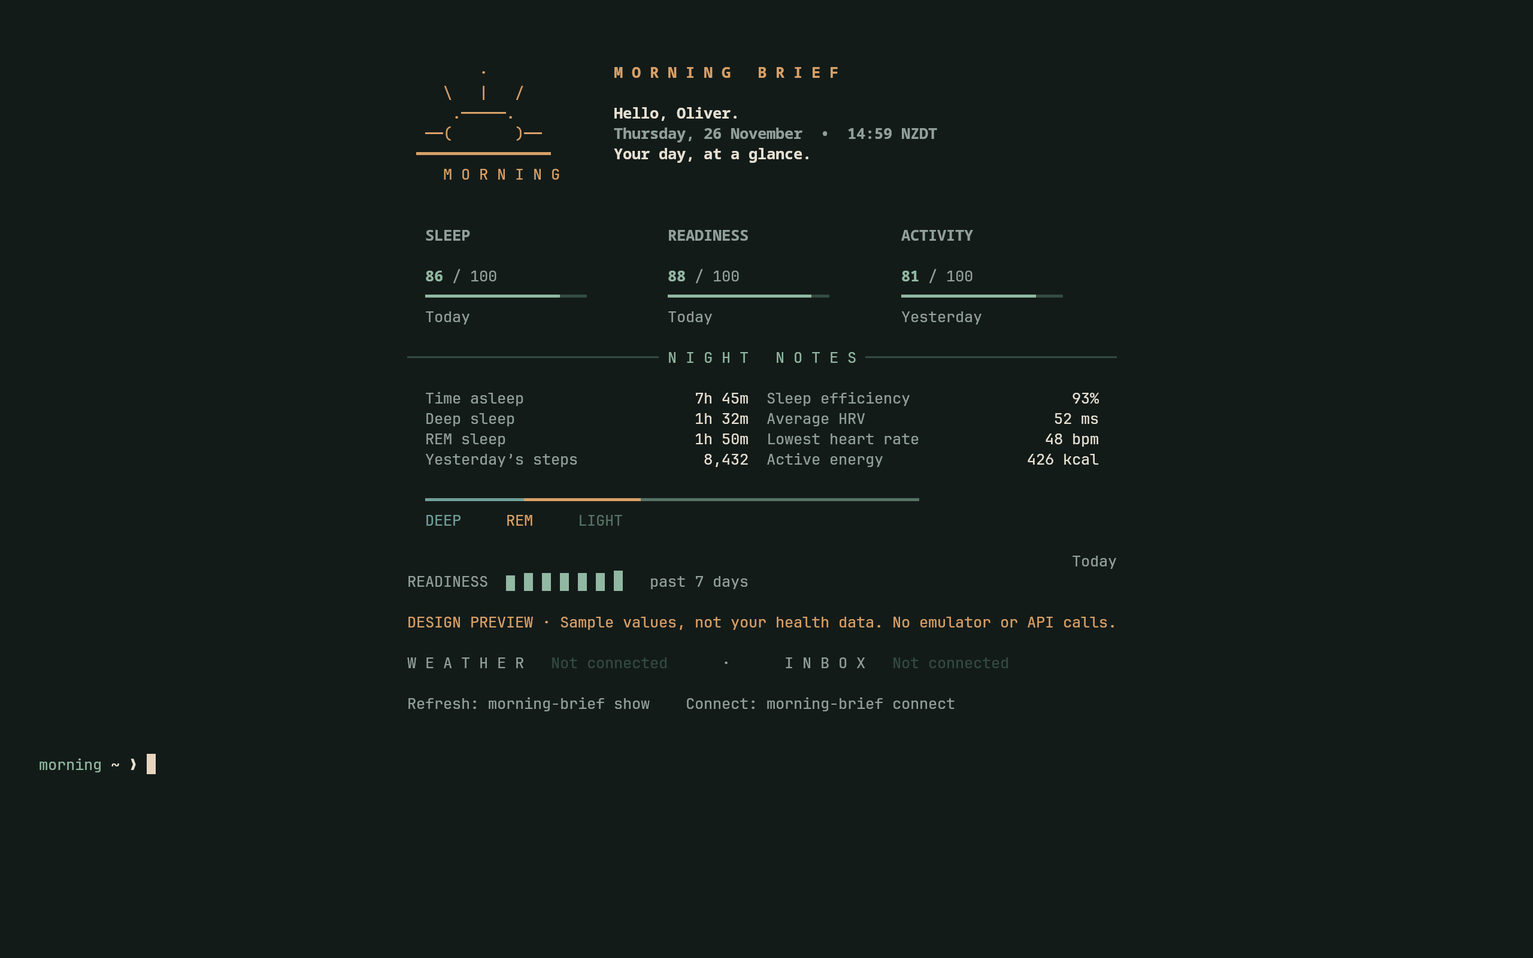
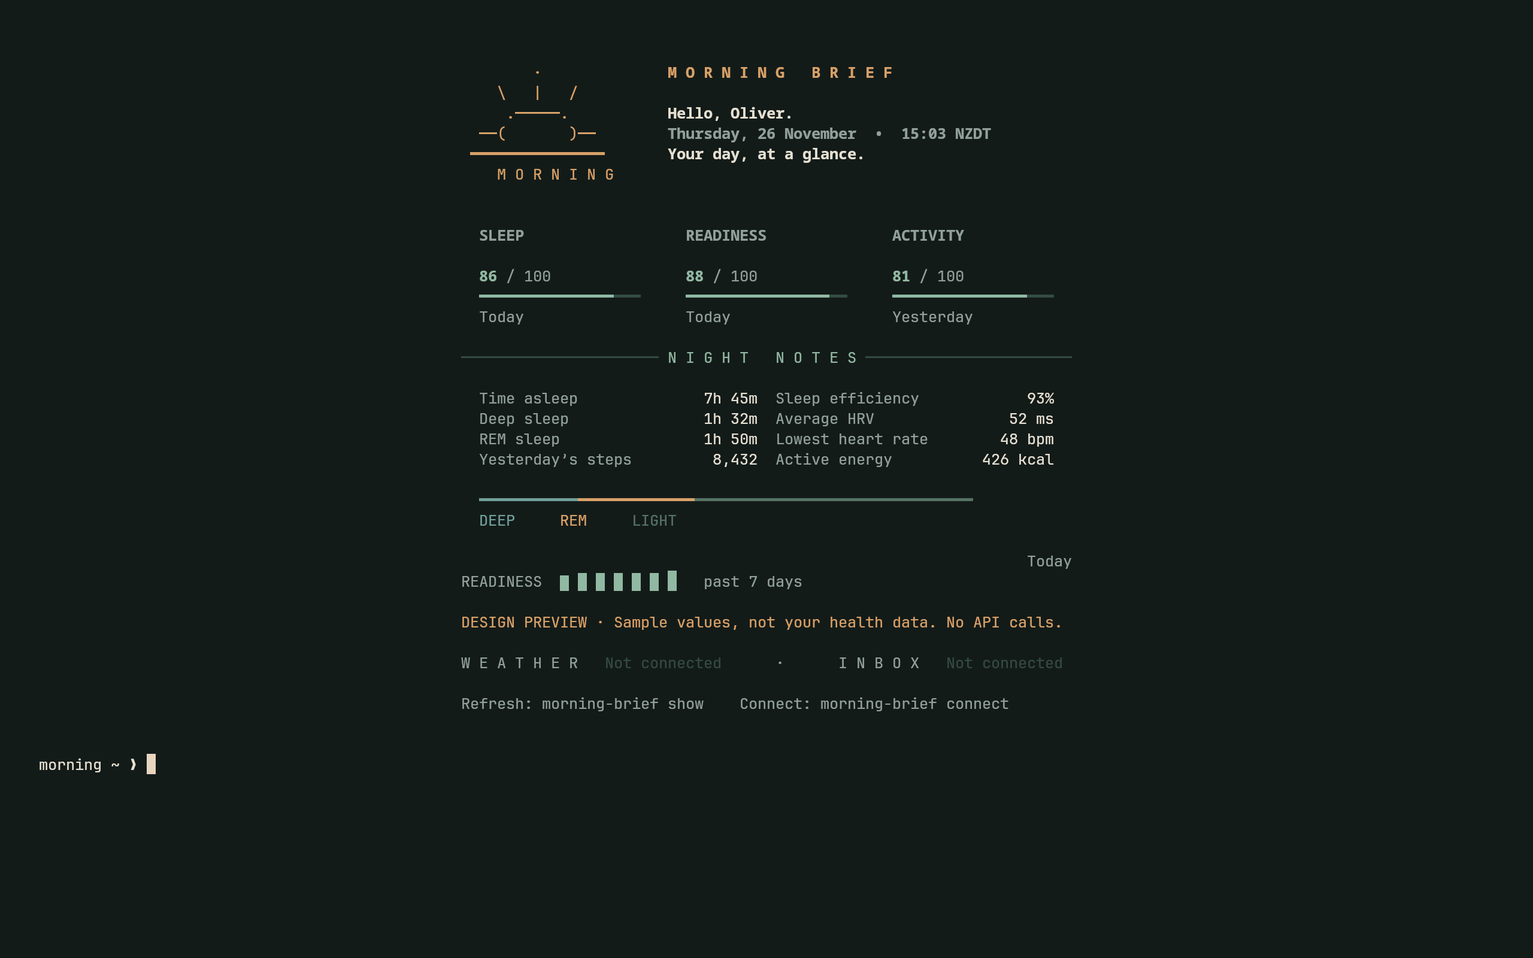
Focus public project on Oura API dashboard and remove device-sync integration

diff --git a/docs/privacy.html b/docs/privacy.html
@@ -4,13 +4,13 @@
 <h2>Project and scope</h2><p>Morning Brief is an independent personal desktop application maintained by the GitHub account <a href="https://github.com/OliW07">OliW07</a>. This policy covers this project's static website and the open-source desktop code in its repository. It does not replace Oura's, Google's, or GitHub's policies.</p>
 <h2>Oura data accessed</h2><p>With your consent, the desktop application requests Oura's <code>daily</code> OAuth permission. It reads daily sleep, readiness and activity summaries and detailed sleep sessions. These may include scores, sleep times and stages, sleep efficiency, overnight heart-rate/HRV summaries, steps and activity energy. It does not request your email, personal-profile, or separate heart-rate time-series permissions.</p>
 <h2>Purpose and data flow</h2><p>The app uses these records only to display your personal briefing, assess whether today's cloud data is available, and maintain a local cache for offline display. Requests go directly from your computer to Oura's authorization/token and API services over HTTPS. The OAuth callback listens temporarily on <code>127.0.0.1:8765</code>, on your own computer, and is not a project-operated public server. Each installation registers its own Oura application.</p>
-<p>When separately configured, an Android emulator runs the official Oura app to sync the ring. The official app communicates with Oura and may communicate with Google services according to their own terms. This project does not control their data processing. Ring data reaches Oura before Morning Brief retrieves cloud records.</p>
+<p>Morning Brief retrieves records already available in Oura Cloud. It does not communicate directly with your ring. Oura's own collection and processing of those records are governed by Oura's policies.</p>
 <h2>Local storage and security</h2><p>The desktop app stores OAuth access/refresh tokens, your API application's client ID and secret, cached Oura records, and daily trigger state on your computer. Default locations are <code>~/.config/morning-brief/</code> and <code>~/.local/state/morning-brief/</code>; XDG settings may change these. Files created by its atomic storage helper are owner-readable/writable (0600). Tokens are not encrypted at rest; administrators, malware, backups, or other software with sufficient access may read them. Protect your computer and backups.</p>
 <p>The code uses OAuth state verification, PKCE, serialized refresh-token rotation and HTTPS API calls. It does not log OAuth callback query strings. Local diagnostic logs can contain operational details; treat any shared logs as potentially sensitive. No security measure is a guarantee.</p>
 <h2>Sharing, analytics and advertising</h2><p>The project does not operate a server that receives your Oura records or credentials. It does not sell health information, include advertising, or include project-operated analytics or tracking SDKs. The desktop code contacts Oura for authorized requests. No health information or account credentials should be submitted to this public website or repository.</p>
 <h2>This website and GitHub</h2><p>This static website does not set application cookies, load third-party fonts, embed analytics, or provide a health-data collection form. It is hosted by GitHub Pages. GitHub may process visitor IP addresses and request information for hosting and security under the <a href="https://docs.github.com/en/site-policy/privacy-policies/github-general-privacy-statement">GitHub Privacy Statement</a>. If you open an issue, GitHub processes your account and submitted content, and the issue is public. Do not post health records, tokens or secrets.</p>
 <h2>Retention and deletion</h2><p>The app normally requests the most recent seven days and replaces its local successful-response cache on subsequent successful fetches. If fetching stops, the last cache remains until replaced or deleted. Tokens and setup state remain until you remove them; logs and backups may persist separately.</p>
-<p>You can revoke authorization through Oura's connected-application controls and stop the app's automation. To remove Morning Brief's local credentials and cached data, delete its configuration and state directories after stopping its processes. Any separately installed Android emulator stores its own Oura account/app data; remove that app data or emulator separately if desired. Deleting local files does not delete records from Oura's services. Contact Oura for account-level deletion or data-rights requests.</p>
+<p>You can revoke authorization through Oura's connected-application controls and stop the app's automation. To remove Morning Brief's local credentials and cached data, delete its configuration and state directories after stopping its processes. Deleting local files does not delete records from Oura's services. Contact Oura for account-level deletion or data-rights requests.</p>
 <h2>Your choices</h2><p>Authorization is optional. You can use a clearly labelled sample preview without connecting Oura. You can revoke access, disable scheduled launches, and remove local files at any time. Future weather/email features are not active integrations; this policy will need updating before introducing new data processing.</p>
 <h2>Contact and updates</h2><p>For project privacy questions, contact the maintainer through <a href="https://github.com/OliW07/morning-brief/issues">GitHub issues</a> or the contact options on <a href="https://github.com/OliW07">OliW07's profile</a>. Issues are public: use them only for non-sensitive questions or to request an appropriate private contact channel. Changes to this policy will be published here with an updated effective date.</p>
 <footer><a href="./">Back to Morning Brief</a> · <a href="terms.html">Terms of service</a> · <a href="https://ouraring.com/privacy-policy">Oura privacy policy</a></footer></main></body></html>

diff --git a/docs/terms.html b/docs/terms.html
@@ -7,11 +7,11 @@
 <h2>Third-party services and availability</h2><p>Oura controls API access, registration, approval, membership eligibility, data availability and rate limits. Their requirements may change or access may be withdrawn. Morning Brief cannot guarantee that an account can connect or that an integration will remain available. Your use of Oura, Google, GitHub and other third-party services is governed by their own agreements and privacy policies.</p>
 <p>The software reads records already uploaded to Oura Cloud. It cannot guarantee successful ring syncing, accurate or complete records, real-time updates, or uninterrupted operation. Displayed sample data is labelled as a preview and is not your health information. Weather and email integrations shown as not connected are not currently provided.</p>
 <h2>Not medical advice</h2><p>Morning Brief is an informational display, not a medical device, diagnostic tool or healthcare service. Its scores, summaries and trends are not medical advice and must not be used to diagnose or treat a condition, make emergency decisions, or replace advice from a qualified healthcare professional. Direct questions about the underlying measurements to Oura or an appropriate professional.</p>
-<h2>Local operation and Bluetooth</h2><p>The optional, separately configured Android emulator may temporarily take exclusive control of a Bluetooth adapter. Other devices using that adapter can disconnect during syncing. The application attempts to return the adapter after its bounded sync session, but operating-system, emulator, hardware or power failures can interrupt this process. Avoid relying on the shared adapter for critical devices during use. You are responsible for maintaining backups and reviewing local configuration changes.</p>
+<h2>Local operation</h2><p>The desktop application runs on your computer and depends on working network access and Oura Cloud availability. You are responsible for maintaining backups, protecting credentials and reviewing local configuration changes. Morning Brief does not communicate directly with your ring or manage its connection.</p>
 <h2>Privacy and credentials</h2><p>Data handling is described in the <a href="privacy.html">privacy policy</a>. The desktop application stores credentials and cached records locally; these files are not encrypted by the application. Protect your device and backups. Never publish tokens, client secrets or health data in repository issues. This website is not an OAuth callback or a place to submit health records.</p>
 <h2>Software and intellectual property</h2><p>Third-party names, trademarks, code and assets remain the property of their respective owners. These terms do not grant rights to third-party trademarks or services. Any software license expressly included with a particular component governs rights to that component; these website terms do not replace it or create a separate software license. Public availability of a repository alone does not grant unrestricted redistribution rights.</p>
 <h2>No warranty</h2><p>To the extent permitted by applicable law, the website and project software are provided “as is” and “as available,” without warranties of merchantability, fitness for a particular purpose, non-infringement, accuracy, security, reliability or availability. This is an experimental personal project; there is no guaranteed support, maintenance schedule, service level or future feature commitment.</p>
-<h2>Limitation of liability</h2><p>To the extent permitted by applicable law, the maintainer is not liable for indirect, incidental, special or consequential losses arising from use of the project, including lost data, interrupted Bluetooth connections, service unavailability or reliance on displayed information. Nothing in these terms excludes or limits rights or liabilities that cannot lawfully be excluded or limited, including any applicable mandatory consumer protections.</p>
+<h2>Limitation of liability</h2><p>To the extent permitted by applicable law, the maintainer is not liable for indirect, incidental, special or consequential losses arising from use of the project, including lost data, service unavailability or reliance on displayed information. Nothing in these terms excludes or limits rights or liabilities that cannot lawfully be excluded or limited, including any applicable mandatory consumer protections.</p>
 <h2>Stopping use</h2><p>You can stop using the software at any time, disable its automation, revoke access through Oura and remove its local files as described in the privacy policy and repository documentation. Removing this software does not cancel third-party subscriptions or delete data from Oura. The maintainer may change or discontinue the project without a guarantee of continued availability.</p>
 <h2>Changes and contact</h2><p>Updates to these terms will be published here with a revised effective date. Review the current terms before using a changed version. For questions, use <a href="https://github.com/OliW07/morning-brief/issues">the repository's issues page</a> or the contact options on <a href="https://github.com/OliW07">the maintainer's profile</a>. Issues are public; do not include sensitive information.</p>
 <footer><a href="./">Back to Morning Brief</a> · <a href="privacy.html">Privacy policy</a></footer></main></body></html>

diff --git a/docs/index.html b/docs/index.html
@@ -10,7 +10,7 @@
 <div class="cards"><div class="card"><strong>Sleep</strong><p>Duration, stages, efficiency and overnight metrics.</p></div><div class="card"><strong>Readiness</strong><p>Your daily score and recent trend, clearly dated.</p></div><div class="card"><strong>Local first</strong><p>Direct Oura API access. No project-operated health-data server.</p></div></div>
 <h2>In the terminal</h2><figure style="margin:24px 0"><img src="assets/terminal.png" alt="Morning Brief running in a real Kitty terminal, displaying sample sleep and readiness data with an interactive shell prompt below" style="display:block;width:100%;height:auto;border:1px solid var(--line);border-radius:12px" loading="lazy"><figcaption><p>Actual terminal screenshot, using labelled sample data—not live Oura records. An opaque background is used here for readability and desktop privacy; the installed widget supports transparency.</p></figcaption></figure>
 <h2>How it works</h2><p>Connect your own Oura account through OAuth. The app requests the <code>daily</code> permission and fetches summaries directly from Oura Cloud. Credentials and cached records stay on your computer. The website never receives them.</p>
-<p>The personal morning workflow starts on first active use after 3 a.m. A separately configured Android emulator can sync the ring before the dashboard opens. Missing or stale cloud data is labelled rather than presented as current.</p>
+<p>The morning workflow starts on first active use after 3 a.m. and retrieves your latest summaries from Oura Cloud. Missing or stale cloud data is labelled rather than presented as current.</p>
 <p class="note">This is an independent personal project, not an official Oura product or a medical device. Oura membership is required for Gen3/newer API access. Live account authorization remains to be verified; weather and email are planned, not current features.</p>
 <h2>Get started</h2><p>Installation, source code and OAuth registration instructions are in the <a href="https://github.com/OliW07/morning-brief#readme">repository README</a>. Each installation uses its own registered Oura application; no shared client secret is distributed.</p>
 <pre>python -m brief connect

diff --git a/brief/morning.py b/brief/morning.py
@@ -2,16 +2,13 @@ import datetime as dt
 import json
 import os
 from pathlib import Path
-import signal
 import subprocess
-import tempfile
 import time
 
 from . import oura
 from .storage import HOME, STATE, claim_day, config, load, locked, morning_day, save
 
 COMMAND = str(HOME / '.local/bin/morning-brief')
-ADB = str(HOME / '.local/share/oura-android/sdk/platform-tools/adb')
 
 
 def command(*args, timeout=8):
@@ -61,57 +58,13 @@ def presence(active):
         maybe()
 
 
-class Emulator:
-    """Close only the session we own; never close an existing user session."""
-    def __init__(self):
-        self.process = None
-        self.directory = None
-        self.control = None
-
-    def start(self):
-        if command(ADB, '-s', 'emulator-5580', 'get-state').stdout.strip() == 'device':
-            if command('systemctl', 'is-active', 'oura-bluetooth.service').stdout.strip() != 'active':
-                raise RuntimeError('The open Oura window has already returned Bluetooth to Fedora. Close it before the next sync; reopening Oura starts a new sync window.')
-            result = command(ADB, '-s', 'emulator-5580', 'shell',
-                             'am start -W -n com.ouraring.oura/.launcher.LauncherActivity', timeout=20)
-            if result.returncode:
-                raise RuntimeError('The existing Android session is not ready for Oura.')
-            return
-        self.directory = tempfile.TemporaryDirectory(prefix='morning-brief-', dir=os.environ.get('XDG_RUNTIME_DIR', '/tmp/opencode'))
-        self.control = Path(self.directory.name) / 'control'
-        env = dict(os.environ, MORNING_BRIEF_CONTROL=str(self.control))
-        self.process = subprocess.Popen([str(HOME / '.local/bin/oura-android'), '--background'],
-                                        env=env, stdin=subprocess.DEVNULL,
-                                        stdout=subprocess.DEVNULL, stderr=subprocess.DEVNULL, close_fds=True)
-        deadline = time.monotonic() + 150
-        while time.monotonic() < deadline:
-            if self.control.with_suffix('.ready').exists():
-                return
-            if self.process.poll() is not None:
-                raise RuntimeError('Oura could not start silently. See ~/.local/share/oura-android/launcher.log.')
-            time.sleep(1)
-        raise RuntimeError('Android startup timed out.')
-
-    def close(self):
-        if self.process and self.process.poll() is None:
-            try:
-                # Signal the shell, not flock or the emulator, so cleanup runs.
-                pid = int(self.control.read_text())
-                os.kill(pid, signal.SIGTERM)
-                self.process.wait(timeout=50)
-            except (OSError, ValueError, subprocess.TimeoutExpired):
-                raise RuntimeError('Oura cleanup did not finish; Bluetooth may still be in use.') from None
-        if self.directory:
-            self.directory.cleanup()
-
-
 def sync(day):
-    emulator = Emulator()
     try:
-        emulator.start()
         linked = oura.connected()
+        if not linked:
+            return 'Connect the Oura API to show your daily summaries.'
         settings = config()
-        limit = settings['sync_timeout'] if linked else settings['unlinked_sync_timeout']
+        limit = settings['sync_timeout']
         deadline = time.monotonic() + limit
         error = ''
         while time.monotonic() < deadline:
@@ -125,13 +78,9 @@ def sync(day):
                     if 'denied access' in error or 'not connected' in error or 'authorization' in error.lower():
                         return error + ' Cloud sync was not verified.'
             time.sleep(min(settings['poll_interval'], max(0, deadline-time.monotonic())))
-        if not linked:
-            return 'Oura ran silently. Connect the API to verify cloud sync and show your data.'
         return error or 'Sync timed out: today’s complete sleep/readiness data has not reached Oura Cloud yet.'
     except (OSError, RuntimeError, subprocess.TimeoutExpired) as exc:
         return str(exc)
-    finally:
-        emulator.close()
 
 
 def open_window(demo=False, automatic=None):
@@ -166,13 +115,13 @@ def run():
                     if oura.connected():
                         state['sync_status'] = sync(day)
                     else:
-                        state['sync_status'] = 'Setup required: automatic Oura sync starts after you connect the API. Bluetooth was not taken over.'
+                        state['sync_status'] = 'Setup required: connect the Oura API to retrieve your summaries.'
                 except RuntimeError as exc:
                     state['sync_status'] = str(exc)
                 state['finished_at'] = dt.datetime.now().astimezone().isoformat()
                 save(STATE / 'morning.json', state)
             if not desktop_available(require_activity=False):
-                return  # Show on unlock without a second emulator launch.
+                return  # Show on unlock without repeating the daily fetch.
             open_window(automatic=day)
             # Wait for first render to acknowledge; don't race a second trigger.
             deadline = time.monotonic() + 20

diff --git a/tests/test_brief.py b/tests/test_brief.py
@@ -57,30 +57,24 @@ class MorningTests(TemporaryState):
                 with storage.locked('run.lock', blocking=False):
                     self.fail('Concurrent process acquired the run lock')
 
-    def test_timeout_releases_owned_emulator(self):
-        emulator = Mock()
+    def test_cloud_wait_is_bounded(self):
         clock = [0.0]
         def sleep(seconds):
             clock[0] += seconds
-        with patch.object(morning, 'Emulator', return_value=emulator), \
-             patch.object(oura, 'connected', return_value=True), \
+        with patch.object(oura, 'connected', return_value=True), \
              patch.object(oura, 'fetch', return_value={}), \
              patch.object(morning, 'config', return_value={'sync_timeout': 60, 'poll_interval': 15}), \
              patch.object(morning.time, 'monotonic', side_effect=lambda: clock[0]), \
              patch.object(morning.time, 'sleep', side_effect=sleep):
             result = morning.sync('2026-11-11')
         self.assertIn('timed out', result)
-        emulator.close.assert_called_once()
         self.assertEqual(clock[0], 60)
 
-    def test_membership_denial_still_releases_emulator(self):
-        emulator = Mock()
-        with patch.object(morning, 'Emulator', return_value=emulator), \
-             patch.object(oura, 'connected', return_value=True), \
+    def test_membership_denial_is_reported(self):
+        with patch.object(oura, 'connected', return_value=True), \
              patch.object(oura, 'fetch', side_effect=oura.OuraError('Oura denied access: membership')):
             result = morning.sync('2026-11-11')
         self.assertIn('not verified', result)
-        emulator.close.assert_called_once()
 
 
 class DataTests(TemporaryState):

diff --git a/brief/__main__.py b/brief/__main__.py
@@ -11,10 +11,10 @@ from .storage import STATE, config, load, morning_day
 def main():
     parser = argparse.ArgumentParser(description='A quiet, once-a-morning terminal briefing.')
     sub = parser.add_subparsers(dest='command', required=True)
-    sub.add_parser('open', help='Open your dashboard without starting Android')
+    sub.add_parser('open', help='Open your dashboard')
     sub.add_parser('preview', help='Open a clearly labelled sample-data preview')
     sub.add_parser('connect', help='Connect your own Oura account with OAuth')
-    sub.add_parser('fetch', help='Refresh the local API cache without starting Android')
+    sub.add_parser('fetch', help='Refresh the local API cache')
     sub.add_parser('run', help='Run today’s once-only background sync and briefing')
     sub.add_parser('check', help='Check whether first-use conditions are met')
     sub.add_parser('status', help='Show setup and morning-trigger state')
@@ -28,7 +28,7 @@ def main():
     p.add_argument('--demo', action='store_true')
     p.add_argument('--automatic')
     args = parser.parse_args()
-    # A service stop must unwind the sync's finally block and release Bluetooth.
+    # Exit cleanly when the user service is stopped.
     signal.signal(signal.SIGTERM, lambda *_: sys.exit(0))
     try:
         if args.command == 'open':

diff --git a/brief/storage.py b/brief/storage.py
@@ -57,7 +57,7 @@ def locked(name, blocking=True):
 
 
 def claim_day(day):
-    """Caller holds run.lock. Persist before launching, so crashes cannot relaunch."""
+    """Caller holds run.lock. Persist before fetching, so crashes cannot repeat it."""
     state = load(STATE / 'morning.json')
     if state.get('day') != day:
         state = {'day': day, 'sync_attempted': False, 'shown': False}
@@ -65,6 +65,6 @@ def claim_day(day):
     if first:
         state['sync_attempted'] = True
         state['started_at'] = dt.datetime.now().astimezone().isoformat()
-        state['sync_status'] = 'A previous attempt was interrupted; no second emulator launch today.'
+        state['sync_status'] = 'A previous attempt was interrupted; no second automatic update today.'
         save(STATE / 'morning.json', state)
     return state, first

diff --git a/brief/display.py b/brief/display.py
@@ -132,7 +132,7 @@ def dashboard(data, error='', demo=False, now=None):
     trend.append('  past 7 days', style=MUTED)
 
     if demo:
-        status = 'DESIGN PREVIEW · Sample values, not your health data. No emulator or API calls.'
+        status = 'DESIGN PREVIEW · Sample values, not your health data. No API calls.'
     elif error:
         status = error
     elif not oura.connected():

diff --git a/README.md b/README.md
@@ -25,9 +25,8 @@ service or an official Oura product. OAuth integration is implemented, but live
 account authorization and end-to-end API sync still need verification. Sample
 previews are explicitly labelled and do not represent anyone's real data.
 
-The current morning launcher expects a separately configured local Android
-emulator and Bluetooth service; this repository does not install those privileged
-components. The ordinary dashboard/API commands do not need an emulator.
+This project connects directly to the Oura API. It displays records already
+available in Oura Cloud and does not manage your ring's connection.
 
 ## Local use
 
@@ -74,13 +73,11 @@ PKCE and state verification, and refreshes tokens automatically. Tokens and the
 client secret are owner-readable local files, not encrypted storage. Local users
 with sufficient OS privileges can read them. No credentials are bundled.
 
-## Sync and Bluetooth
+## Data freshness
 
-The API reads Oura Cloud, not the ring. Data must first sync through the Oura app.
-The personal emulator setup briefly borrows the laptop's adapter, interrupting
-Fedora Bluetooth devices, and shuts Android down before returning the adapter.
-It cannot share one physical adapter simultaneously. First daily use is tracked
-from 03:00 local time. A failed or late sync is explicitly labelled; old records
+The API reads Oura Cloud, not the ring. Your records must be available in Oura
+Cloud before the dashboard can retrieve them. First daily use is tracked from
+03:00 local time. A failed or late update is explicitly labelled; old records
 are not presented as today's. No background automation is enabled by this repo.
 
 ## Development
